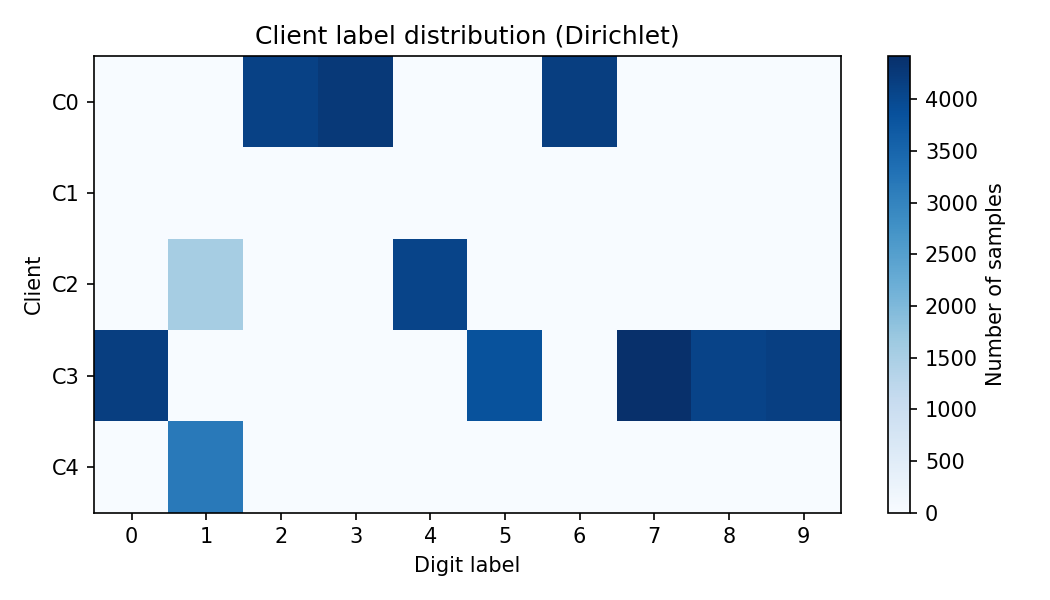
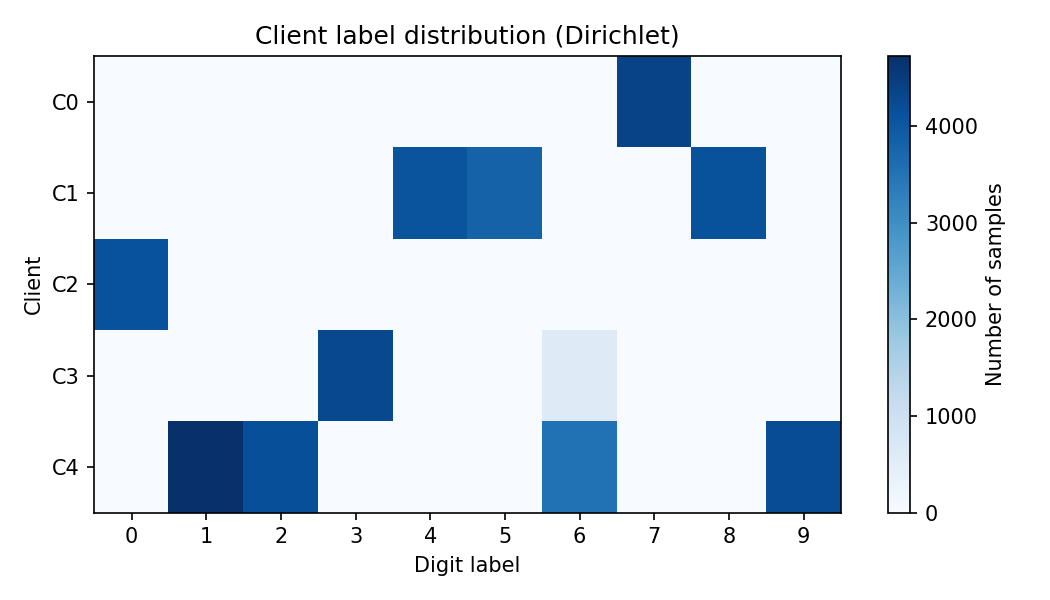
update client data distribution plot

diff --git a/src/plotting.py b/src/plotting.py
@@ -75,17 +75,13 @@ def plot_acc_overlay(central_accs, fed_accs):
     plt.show()
 
 
-def plot_client_label_distribution(
-    client_training_loaders,
-    num_classes: int = 10,
-    title: str = "Client label distribution",
-    save_path: str = "client_label_distribution.png",
-):
+def plot_client_label_distribution(client_training_loaders):
     """
     Visualize how many samples of each label each client has
     using a heatmap (clients x classes).
     """
     num_clients = len(client_training_loaders)
+    num_classes = 10
     counts = np.zeros((num_clients, num_classes), dtype=int)
 
     for client_id, loader in enumerate(client_training_loaders):
@@ -98,7 +94,7 @@ def plot_client_label_distribution(
 
     ax.set_xlabel("Digit label")
     ax.set_ylabel("Client")
-    ax.set_title(title)
+    ax.set_title("Client label distribution (Dirichlet)")
 
     ax.set_xticks(range(num_classes))
     ax.set_xticklabels(range(num_classes))
@@ -109,5 +105,5 @@ def plot_client_label_distribution(
     cbar.set_label("Number of samples")
 
     plt.tight_layout()
-    plt.savefig(save_path, dpi=150)
+    plt.savefig("client_label_distribution.png", dpi=150)
     plt.show()

diff --git a/src/overlay/comparison_overlay.py b/src/overlay/comparison_overlay.py
@@ -47,11 +47,7 @@ train_loader = DataLoader(mnist_trainset, batch_size = 64, shuffle = True)
 # this will show what digits each client has (console)
 debug_non_iid_split(client_training_loaders)
 # and create a heatmap-style overview per client
-plot_client_label_distribution(
-    client_training_loaders,
-    title="Client label distribution (Dirichlet)",
-    save_path="client_label_distribution.png",
-)
+plot_client_label_distribution(client_training_loaders)
 
 val_loader = DataLoader(mnist_valset, batch_size = 64, shuffle = False)
 test_loader = DataLoader(mnist_testset, batch_size=64, shuffle=False)
